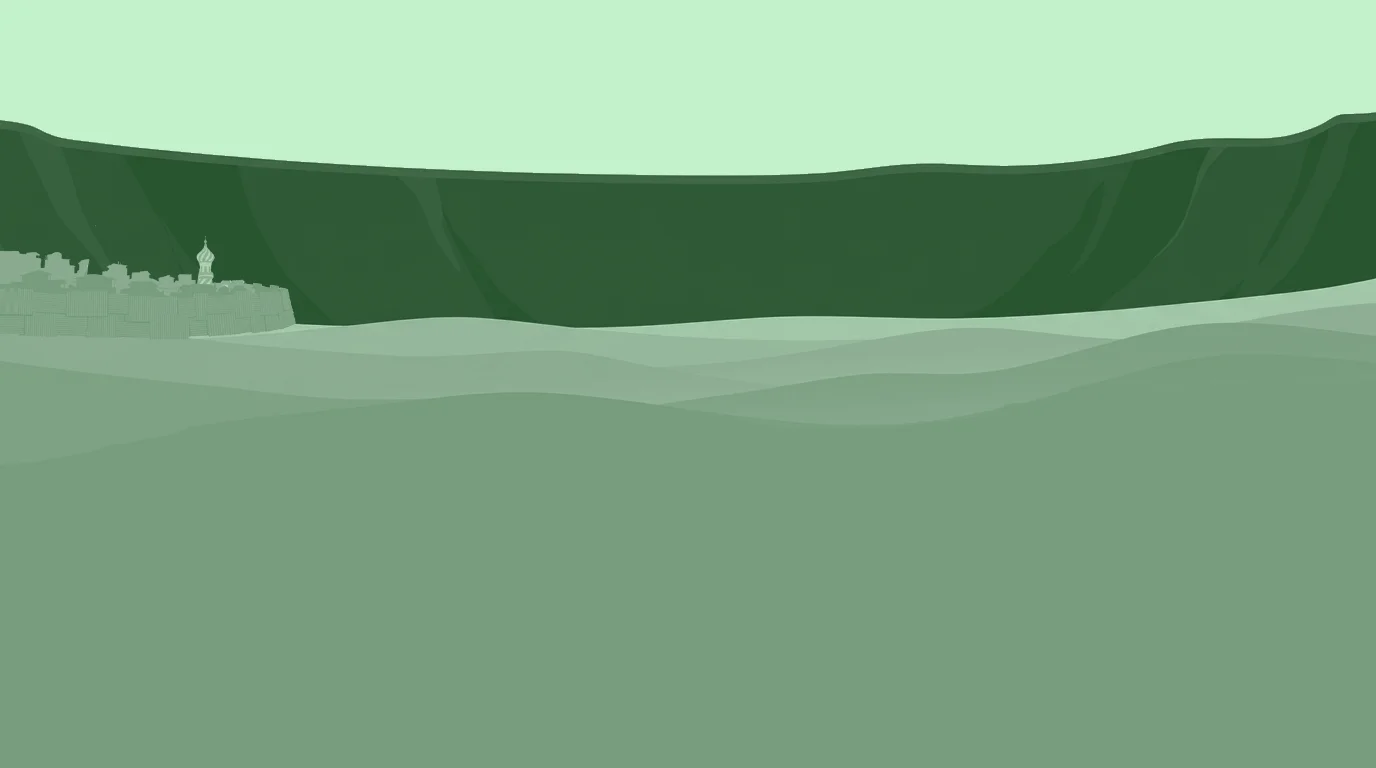
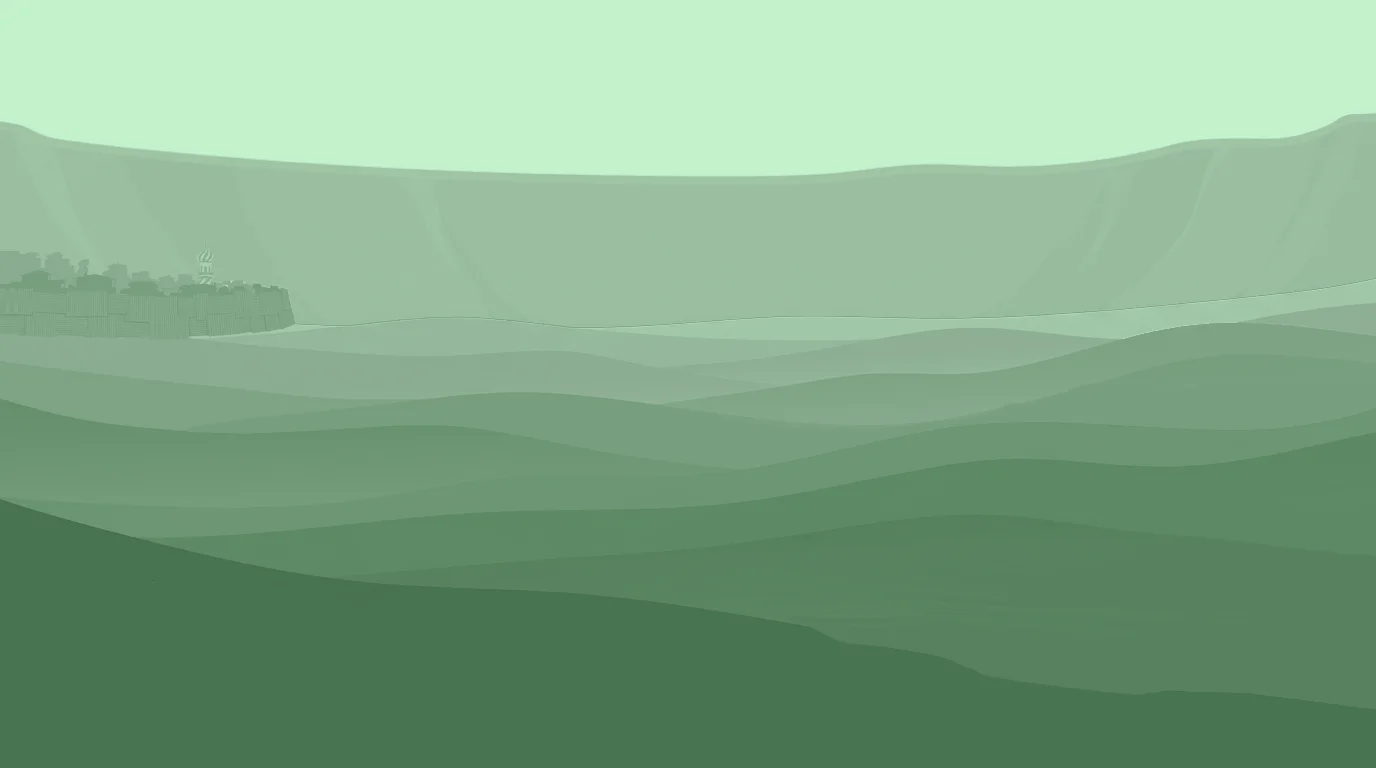
Restore scene 5_e and update gate-glow keyframes to support custom variables

diff --git a/css/animations.css b/css/animations.css
@@ -258,3 +258,104 @@
 .scroll-segment.mirrored-vertical {
     transform: scaleY(-1);
 }
+
+/* Slow Camera Push-In / Pull-Out Zoom (Exactly Centered) */
+@keyframes slow-push-zoom {
+    0%, 100% {
+        transform: scale(1.0);
+    }
+    50% {
+        transform: scale(4.5); /* Push in close to the centered characters */
+    }
+}
+
+.parallax-camera-zoom {
+    position: relative;
+    width: 100%;
+    height: 100%;
+    transform-style: preserve-3d;
+    perspective: 1000px;
+    z-index: 11;
+    transform-origin: center center;
+    animation: slow-push-zoom 180s ease-in-out infinite;
+}
+
+/* Glass window reflection fades out as camera zooms close, and fades back in as it pulls out */
+@keyframes glass-reflection-fade {
+    0%, 100% {
+        opacity: 0.85;
+    }
+    50% {
+        opacity: 0.15;
+    }
+}
+
+.glass-reflection-zoom {
+    animation: glass-reflection-fade 180s ease-in-out infinite;
+}
+
+/* Baseline scale for characters designed at "full zoom" (huge) so they fit the monolith window at start */
+.zoom-fit-characters {
+    position: absolute;
+    top: 0;
+    left: 0;
+    width: 100%;
+    height: 100%;
+    transform-origin: center center;
+    transform: scale(0.2222); /* 1 / 4.5 zoom correction factor */
+    pointer-events: none;
+    z-index: 30;
+}
+
+/* Direct Background Zoom for Push-In Scenes
+   Background lives OUTSIDE the camera container, so this transform is applied directly
+   with no parent scale compounding. What you see here is exactly what you get on screen. */
+@keyframes zoom-bg-direct {
+    0%, 100% {
+        transform: scale(1.06) translateX(1.6%) translateZ(0);
+    }
+    50% {
+        transform: scale(2.0) translateX(-1.6%) translateZ(0);
+    }
+}
+
+.zoom-bg-direct {
+    animation: zoom-bg-direct 180s ease-in-out infinite;
+}
+
+
+/* Ambient window/gate glow pulsing animation */
+@keyframes pulse-glow {
+    0%, 100% {
+        opacity: calc(var(--glow-opacity, 1.0) * 0.65);
+        transform: translate(-50%, -50%) scale(calc(var(--glow-scale, 1.0) * 1.0));
+    }
+    50% {
+        opacity: var(--glow-opacity, 1.0);
+        transform: translate(-50%, -50%) scale(calc(var(--glow-scale, 1.0) * 1.25));
+    }
+}
+
+.pulse-glow {
+    animation: pulse-glow var(--glow-duration, 5s) ease-in-out infinite;
+    animation-delay: var(--glow-delay, 0s);
+}
+
+.gate-glow {
+    position: absolute;
+    width: 30%;
+    height: 30%;
+    /* Gradient fades to 0% opacity at 20% of the box, well before reaching the edges (50%) */
+    background: radial-gradient(circle, 
+        rgba(220, 40, 230, 1.0) 0%, 
+        rgba(220, 40, 230, 0.95) 8%, 
+        rgba(220, 40, 230, 0.4) 14%, 
+        rgba(220, 40, 230, 0) 20%
+    );
+    mix-blend-mode: normal; /* Normal blend mode for a true, solid, fully opaque purple core */
+    pointer-events: none;
+    transform: translate(-50%, -50%) scale(var(--glow-scale, 1.0));
+    opacity: var(--glow-opacity, 1.0);
+    will-change: transform, opacity;
+}
+

diff --git a/scenes/scene_5_e.html b/scenes/scene_5_e.html
@@ -1,0 +1,56 @@
+<!DOCTYPE html>
+<html lang="en">
+<head>
+    <meta charset="UTF-8">
+    <meta name="viewport" content="width=device-width, initial-scale=1.0">
+    <meta name="google" content="notranslate">
+    <title>Book 5 Epilogue</title>
+    <link rel="stylesheet" href="../css/scene.css">
+    <link rel="stylesheet" href="../css/animations.css">
+</head>
+<body>
+    <a href="../index.html" class="back-button" id="back-btn">⬅ Back</a>
+    <script>
+        if (window !== window.parent) {
+            document.getElementById('back-btn').style.display = 'none';
+        }
+    </script>
+    
+    <div class="scene-container">
+
+        <!-- Background: Sibling of the camera, NOT inside it. Has its own direct zoom animation
+             so its scale isn't compounded with the camera's. -->
+        <img src="../Images/scene_5_e/DCC_5_e_background.webp" class="layer background zoom-bg-direct" style="z-index: 11;" alt="Background">
+
+        <div class="parallax-camera-zoom">
+
+            <div class="gate-glow hero-glow pulse-glow" style="z-index: 25; left: 50%; top: 50%; --glow-duration: 5s;"></div>
+            
+            <div class="zoom-fit-characters">
+                <img src="../Images/scene_5_e/DCC_5_e_pony.webp" 
+                     class="layer breathe" 
+                     style="z-index: 30; transform-origin: center center; --breathe-duration: 6.5s; --breathe-delay: -1s;" 
+                     alt="Pony">
+                
+                <img src="../Images/scene_5_e/DCC_5_e_donut.webp" 
+                     class="layer breathe" 
+                     style="z-index: 31; transform-origin: center center; --breathe-duration: 5s; --breathe-delay: -2s;" 
+                     alt="Donut">
+                
+                <img src="../Images/scene_5_e/DCC_5_e_carl.webp" 
+                     class="layer breathe" 
+                     style="z-index: 32; transform-origin: center center; --breathe-duration: 8s; --breathe-delay: 0s;" 
+                     alt="Carl">
+            </div>
+
+            <img src="../Images/scene_5_e/DCC_5_e_midground.webp" class="layer midground" alt="Monolith Structure">
+            
+            <img src="../Images/scene_5_e/DCC_5_e_midground_reflection.webp" 
+                 class="layer glass-reflection-zoom" 
+                 style="z-index: 45;" 
+                 alt="Glass Reflection">
+         
+        </div>
+    </div>
+</body>
+</html>

diff --git a/TODO.md b/TODO.md
@@ -9,6 +9,11 @@
 - [x] 5. Restructure all the images into scene folders
 - [x] 6. Make the _Twister_ 'float' around
 - [x] 7. Animate the earth from space.
+- [x] 8. Add a zoom animation
+- [x] 9. Add a glow physics engine
+- [ ] 10. Add buttons to the player for previous and next chapter scenes
+- [ ] 11. Remove ad stubs from mobile
+- [ ] 12. Add multiple gate glows to scene 5_e. But how many is too many? One for each ball is too many, in that case, how many is too few?
 
 ## Art
 
@@ -17,9 +22,11 @@
 - [x] 4.20. On the beach at the sand castle
 - [x] 4.33. The bubble worlds, as seen from the _Twister_ as Carl and Donut return from the Embrass/Quan situation
 - [ ] 4.33. Playing frogger in the communal space
-- [x] 5.2. Selva the starting village
+- [x] 5.2. Selva, the starting village
 - [x] 5.17. The earth from space
 - [x] 5.25. Fort Freedom
+- [ ] 6.2. El Capitol
+- [ ] 6.10. Colon Cemetary
 
 ### Carl's gear
 
@@ -33,6 +40,7 @@
 - Xsteria 2_6
 - Sleeveless black canvas jacket 4_27
 - Black bandana with white paisley printing, tied around head 4_27
+- Buckler bracer (left) 6_2
 
 ### Donut's gear
 